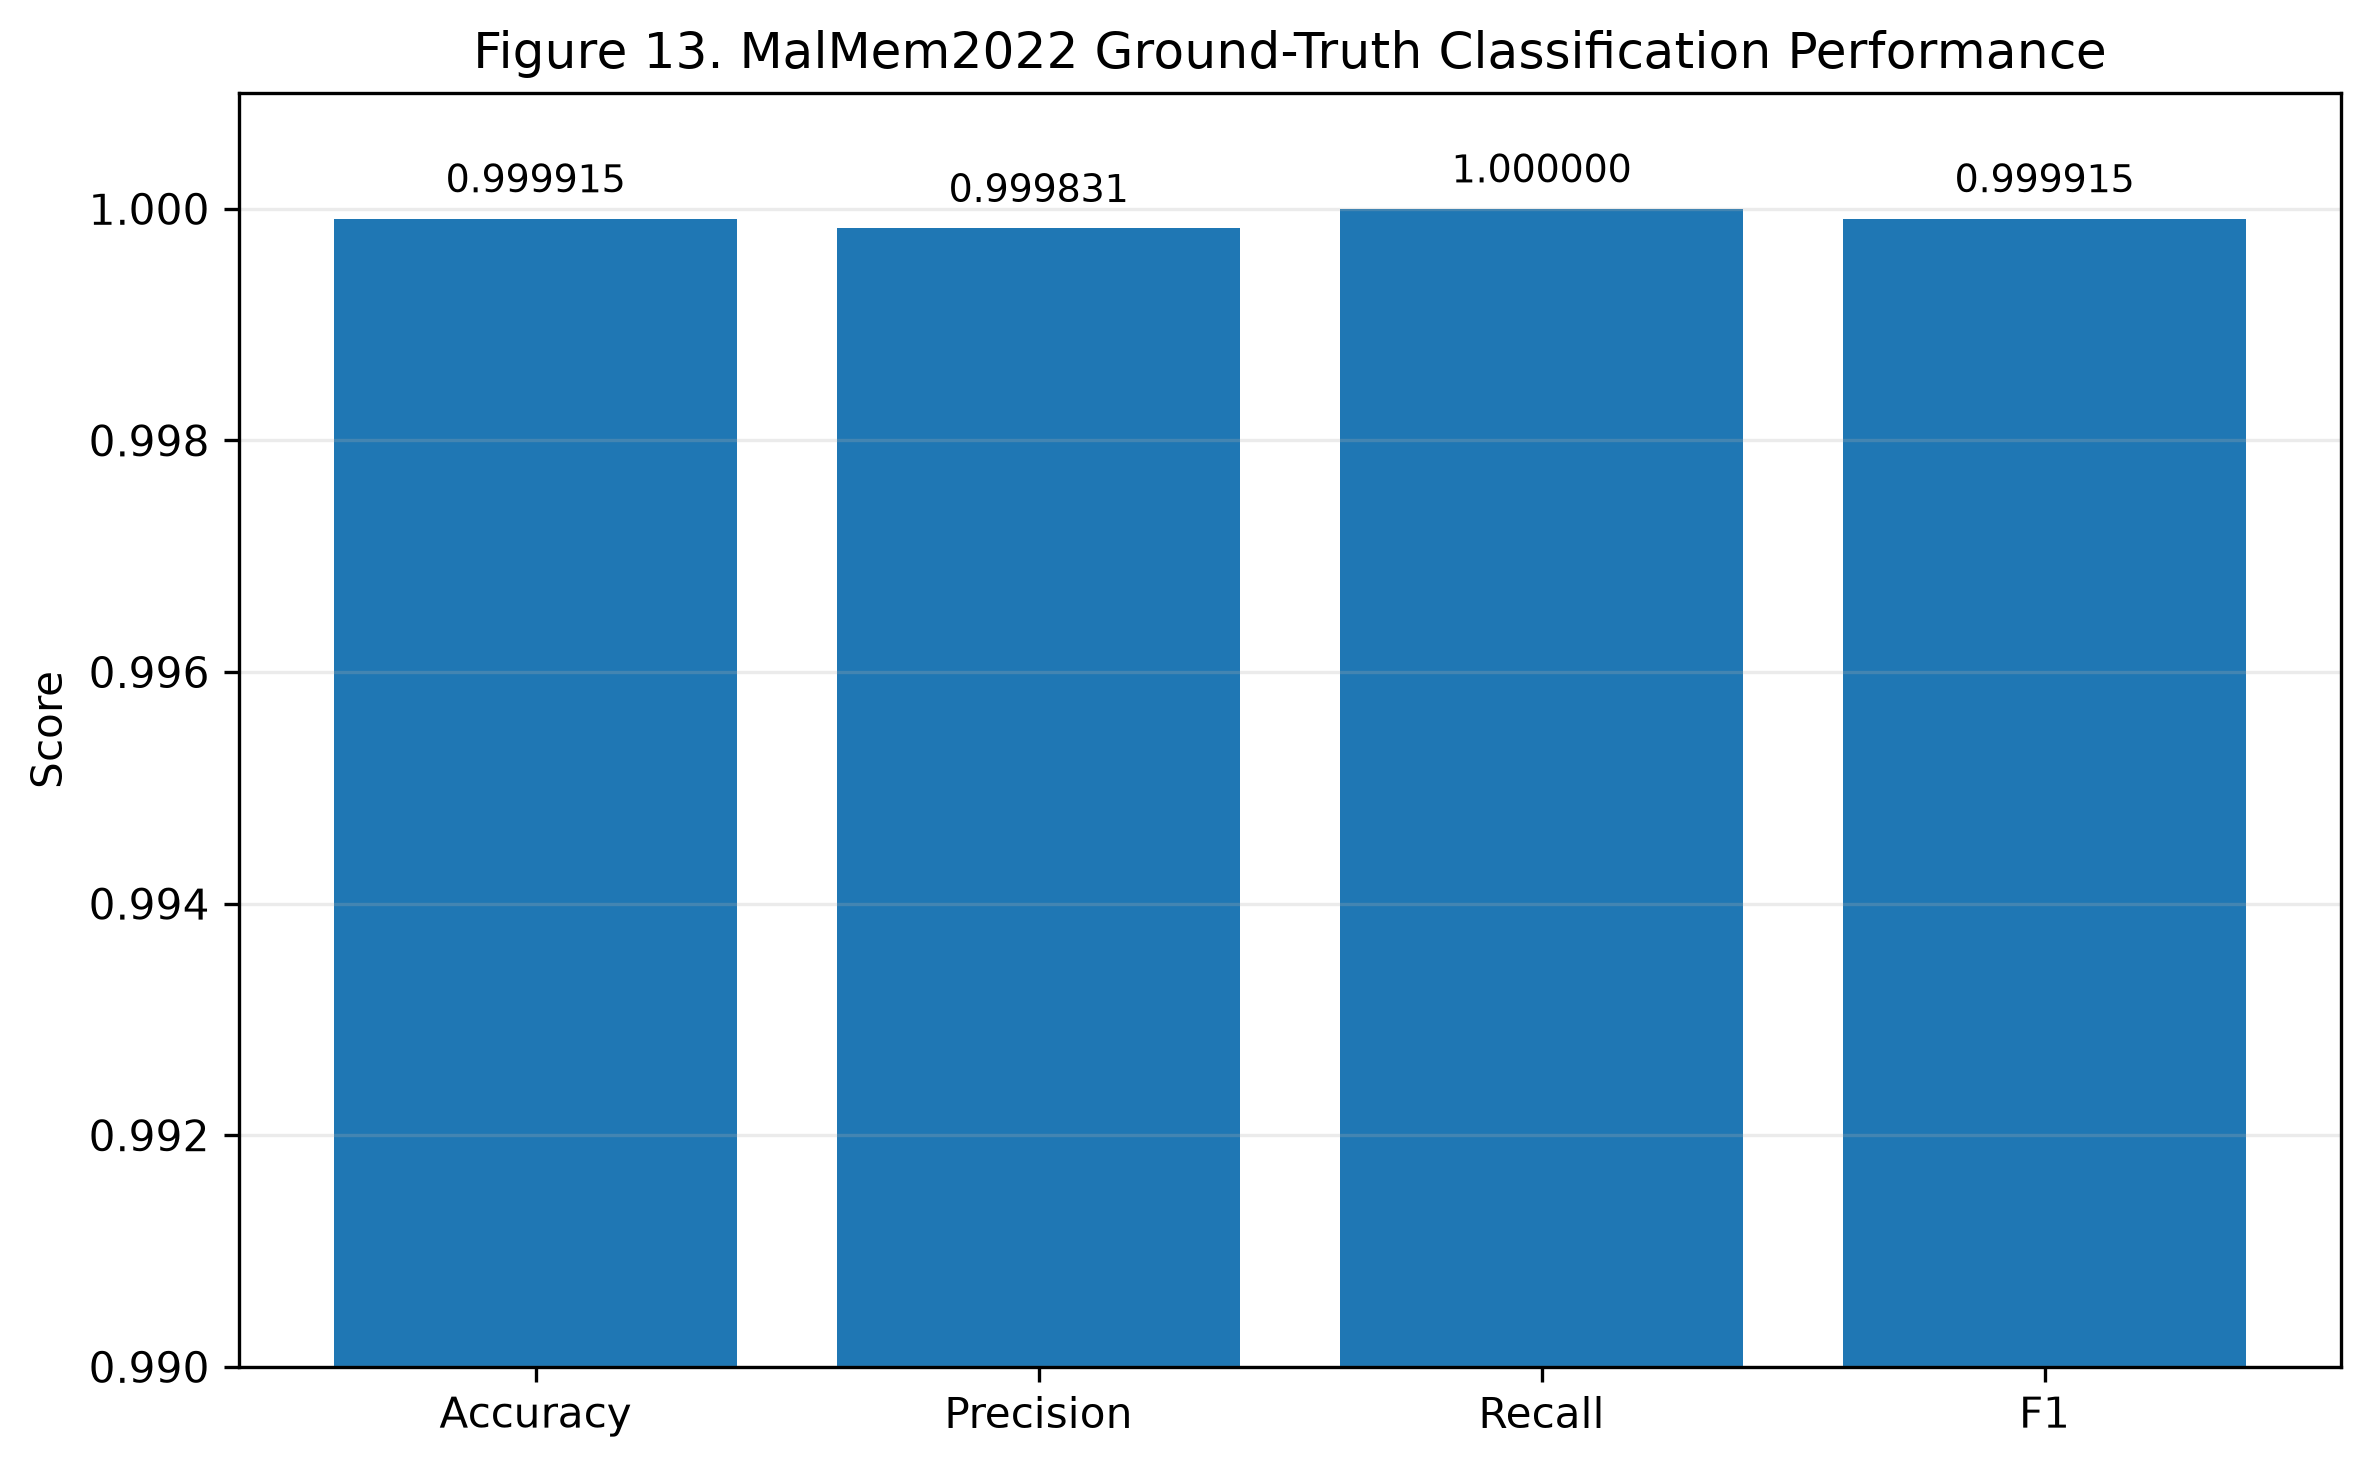
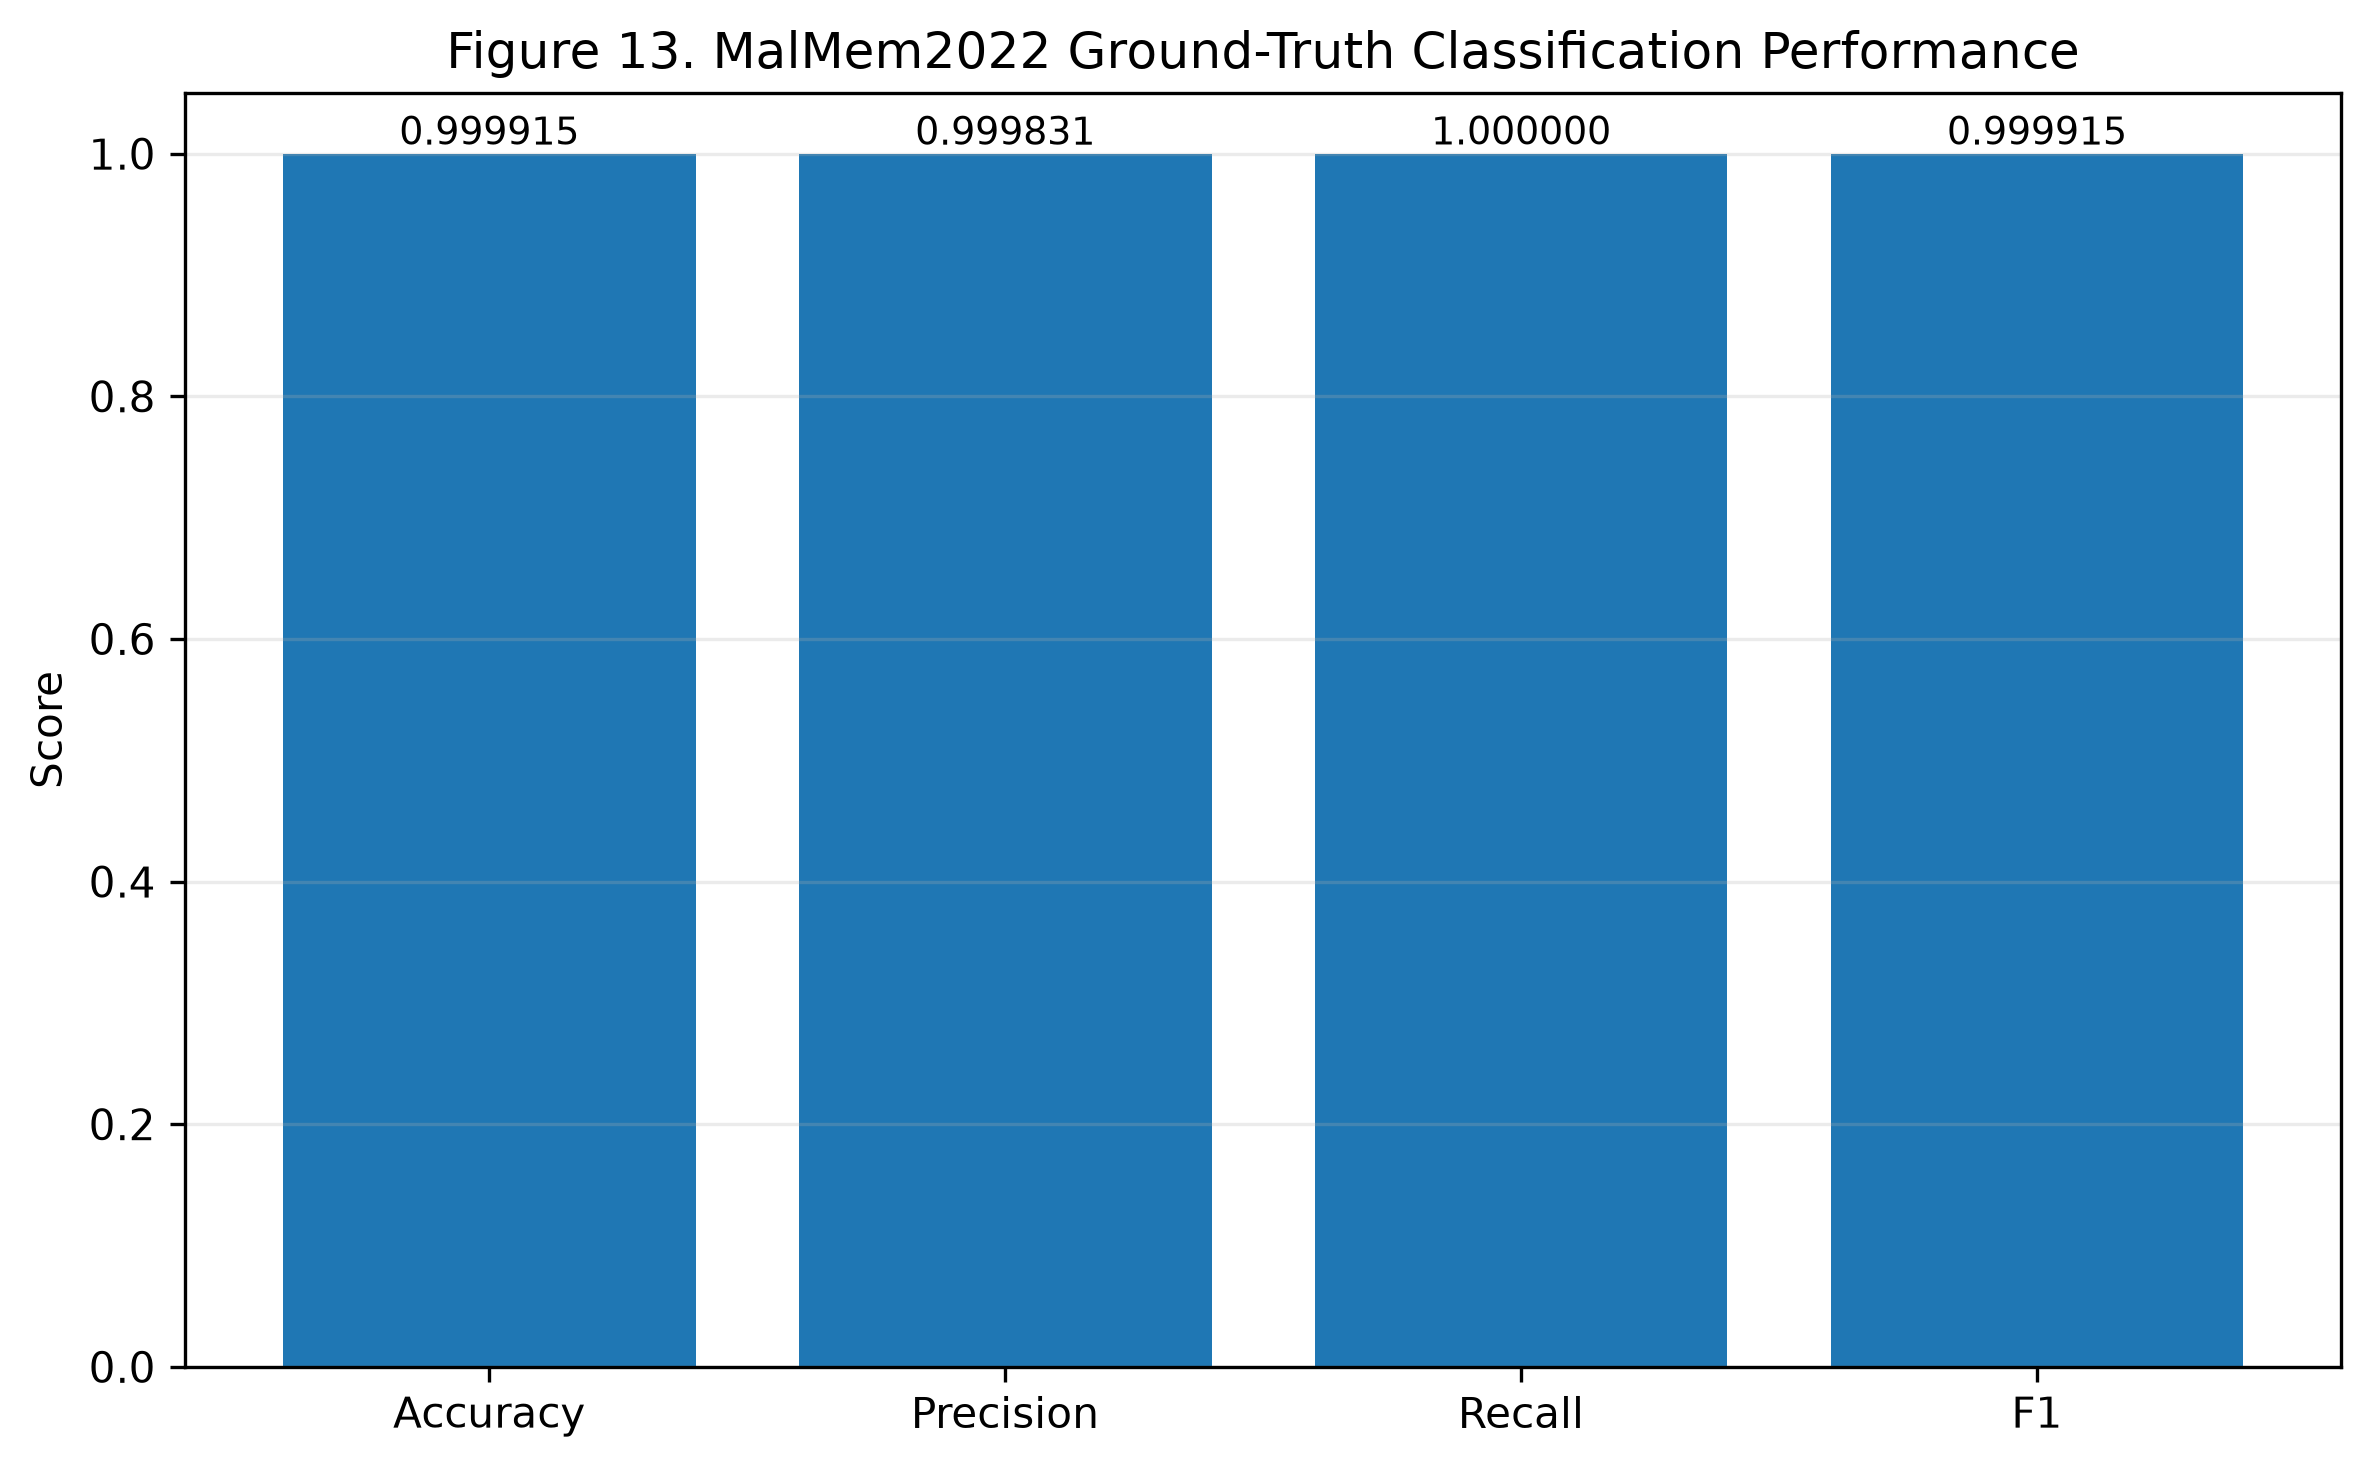
Refine Figure 13 metric scale

diff --git a/src/visualization/generate_figure13.py b/src/visualization/generate_figure13.py
@@ -23,7 +23,7 @@ df.to_csv(OUT_DIR / "figure13_malmem_metrics.csv", index=False)
 fig, ax = plt.subplots(figsize=(8, 5))
 bars = ax.bar(df["metric"], df["value"])
 
-ax.set_ylim(0.99, 1.001)
+ax.set_ylim(0, 1.05)
 ax.set_ylabel("Score")
 ax.set_title("Figure 13. MalMem2022 Ground-Truth Classification Performance")
 ax.grid(axis="y", alpha=0.25)
